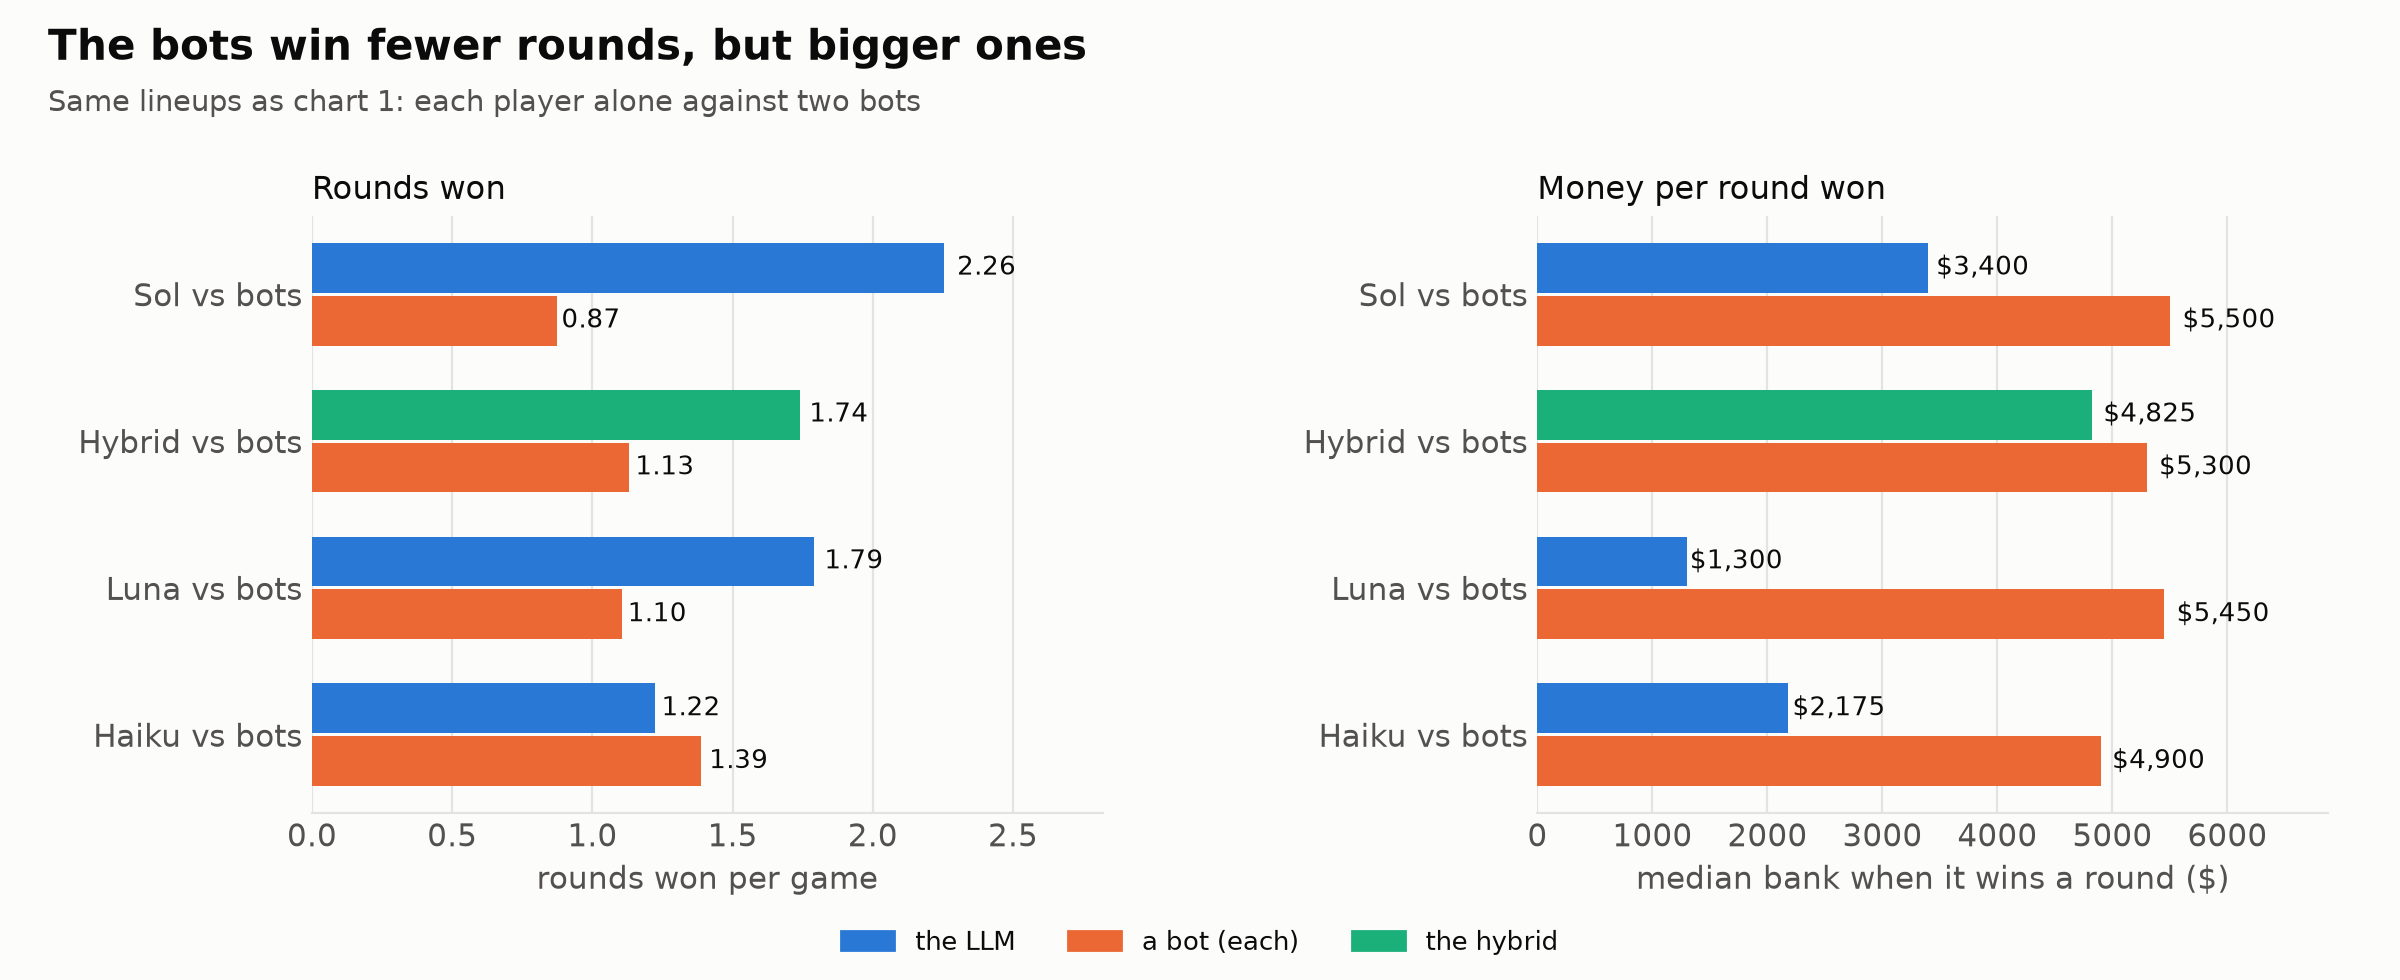
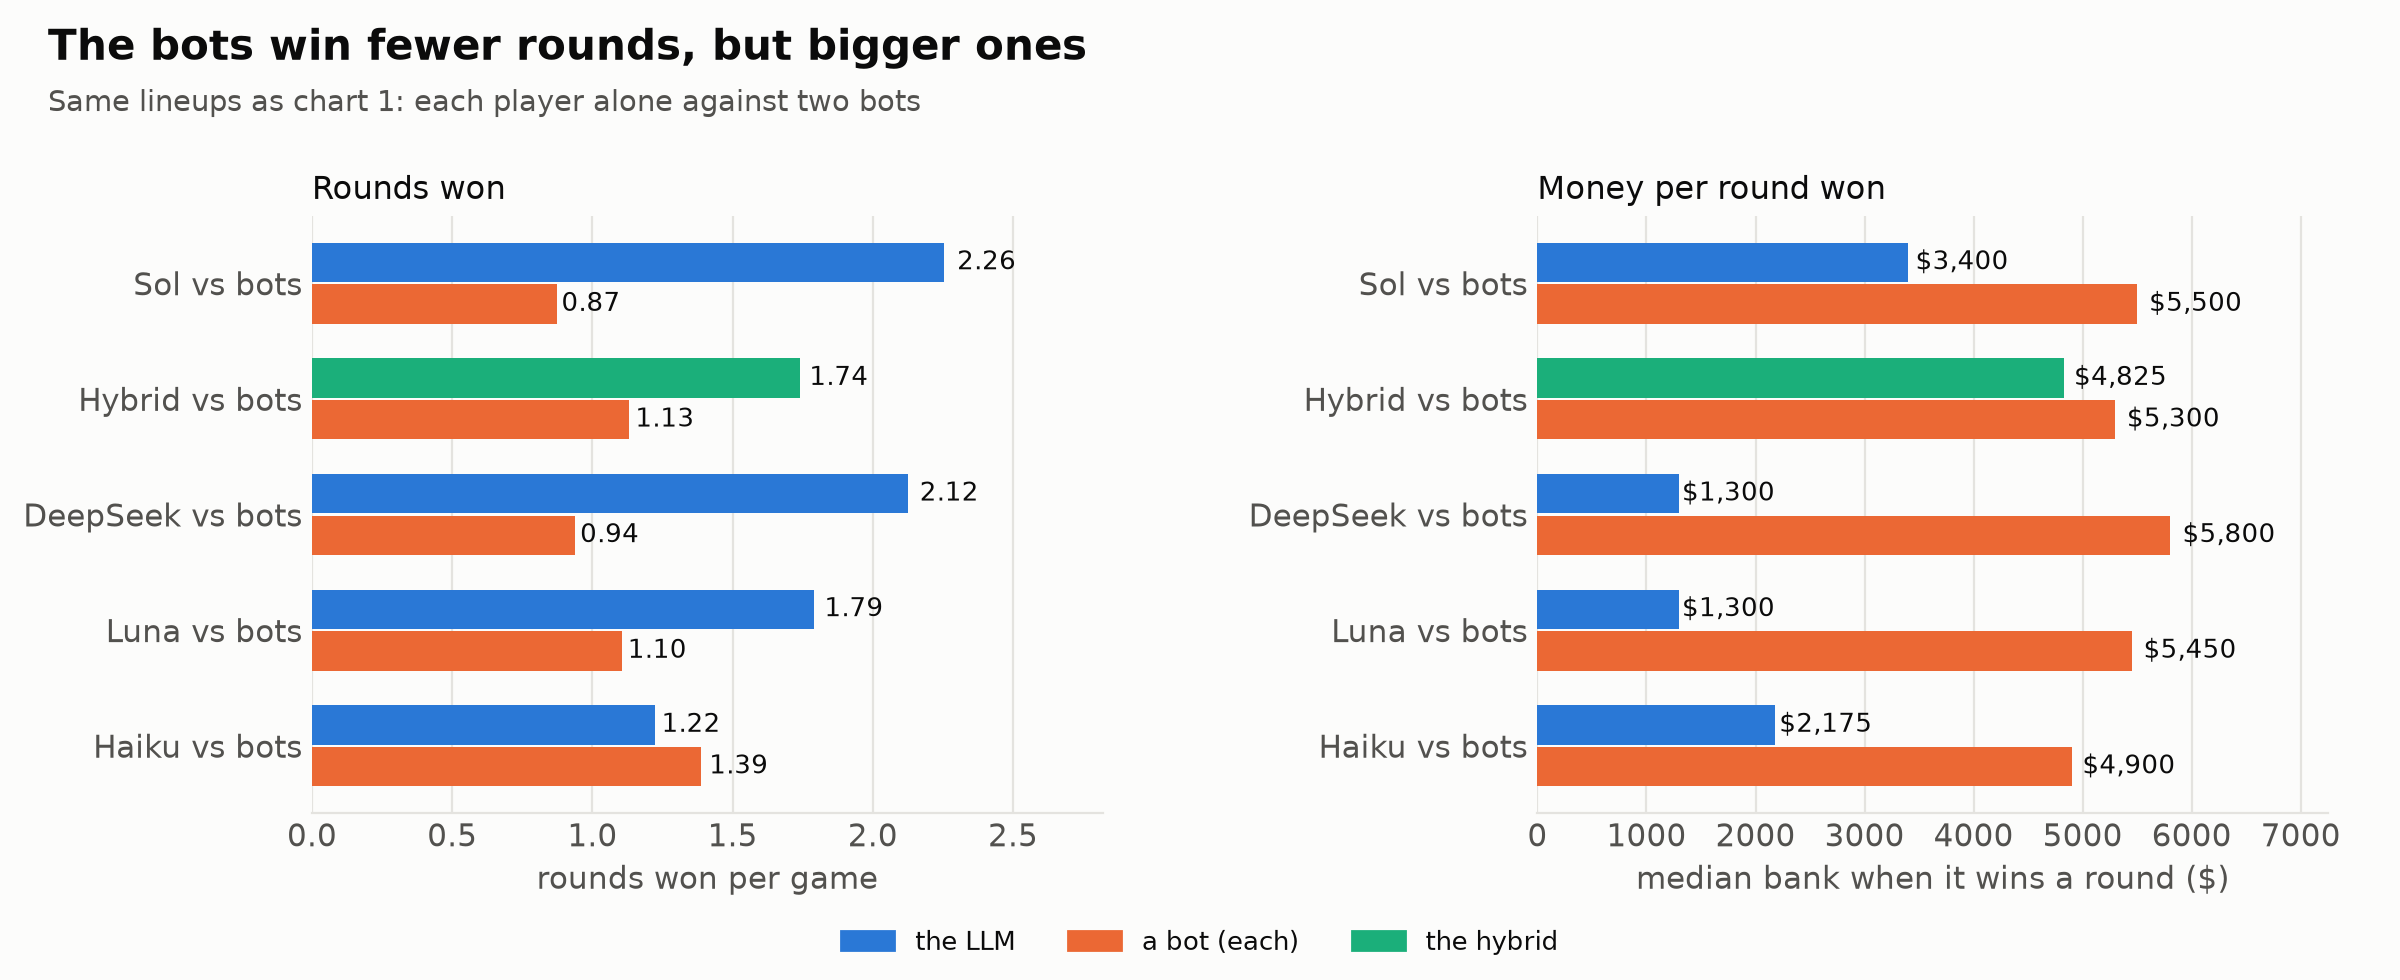
Chart 4 includes DeepSeek

diff --git a/figures/make_figures.py b/figures/make_figures.py
@@ -204,6 +204,8 @@ groups = [("Sol vs bots", "seed707-e250a942", "openai/gpt-6.1-sol", "LLM"),
           ("Hybrid vs bots", "seed707-ca968604", "hybrid:openai/gpt-6-luna", "hybrid"),
           ("Luna vs bots", "seed707-e71dd1af", "openai/gpt-6-luna", "LLM"),
           ("Haiku vs bots", "seed707-4ef950be", "anthropic/claude-haiku-5.5", "LLM")]
+if "seed707-6fa48eea" in REPORTS:
+    groups.insert(2, ("DeepSeek vs bots", "seed707-6fa48eea", "deepseek/deepseek-v4.1-flash-1017", "LLM"))
 data = [(g, kind, per_round(f, key), per_round(f, "bot")) for g, f, key, kind in groups]
 fig, axes = plt.subplots(1, 2, figsize=(12, 4.9))
 fig.subplots_adjust(left=0.13, right=0.97, top=0.78, bottom=0.17, wspace=0.55)
